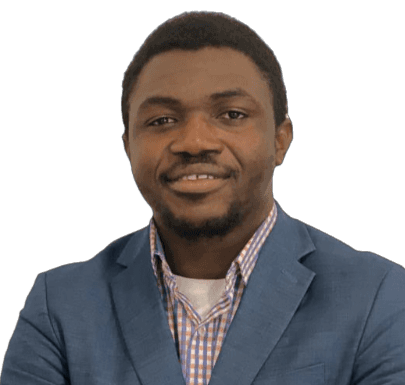
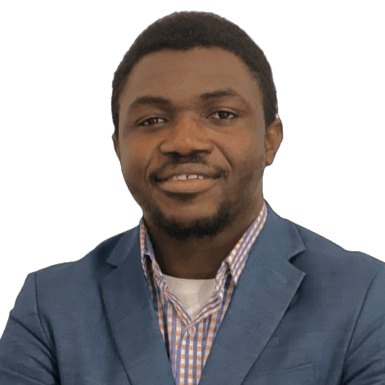
About Page in progress

diff --git a/src/components/organisms/AboutHeader/AboutHeader.scss b/src/components/organisms/AboutHeader/AboutHeader.scss
@@ -1,0 +1,51 @@
+@import '../../../scss/lib.scss';
+.AboutHeader {
+  display: flex;
+  flex-flow: row;
+  align-items: center;
+  text-align: left;
+  justify-content: space-evenly;
+  margin: 60px 0 150px;
+  &_img {
+    img {
+      max-width: 300px;
+      width: 100%;
+      border-radius: 200px;
+      background-color: $background-light;
+    }
+  }
+  &_desc {
+    width: 50%;
+    h3 {
+      font-weight: 500;
+    }
+    p {
+      font-size: 25px;
+    }
+  }
+  @media screen and (max-width: $bm-md) {
+    flex-flow: column;
+
+    &_img {
+      margin-bottom: 20px;
+    }
+
+    &_desc {
+      width: 100%;
+    }
+  }
+
+  @media screen and (max-width: $bm-sm) {
+    margin: 30px 0;
+
+    // &_desc {
+    //   h3 {
+    //     font-size: 20px;
+    //   }
+
+    //   p {
+    //     font-size: 18px;
+    //   }
+    // }
+  }
+}

diff --git a/src/components/organisms/AboutHeader/AboutHeader.jsx b/src/components/organisms/AboutHeader/AboutHeader.jsx
@@ -1,0 +1,23 @@
+import React from 'react';
+import './AboutHeader.scss';
+import DarePass from '../../../assets/DarePass.png';
+
+const AboutHeader = () => {
+  return (
+    <div className="AboutHeader">
+      <div className="AboutHeader_img">
+        <img src={DarePass} alt="Oluwadare Badejo" />
+      </div>
+      <div className="AboutHeader_desc">
+        <h3>Hi there!</h3>
+        <p>
+          Driven by people for data and creating lorem ipsum interactions, I
+          have a evolved to becoming my projection and continuously improve in
+          my work. Learn more about my journey below.
+        </p>
+      </div>
+    </div>
+  );
+};
+
+export default AboutHeader;

diff --git a/src/pages/About.jsx b/src/pages/About.jsx
@@ -1,7 +1,21 @@
 import React from 'react';
+import './About.scss';
+import { AboutHeader } from '../components/organisms';
+import { DUMMY_POST } from '../hooks/DummyPost';
 
 const About = () => {
-  return <div>About</div>;
+  return (
+    <div className="About">
+      <AboutHeader />
+      <div className="About_content">
+        <h4>My Journey</h4>
+        <p>{DUMMY_POST}</p>
+      </div>
+      <div className="About_skillboard">
+        <h4>Skill Board</h4>
+      </div>
+    </div>
+  );
 };
 
 export default About;

diff --git a/src/pages/About.scss b/src/pages/About.scss
@@ -1,0 +1,21 @@
+@import '../scss/lib.scss';
+.About {
+  padding: 80px 115px 0 115px;
+  &_content {
+    p {
+      font-size: 20px;
+      //   font-weight: 400;
+      line-height: 50x;
+      text-align: left;
+      margin: 20px 0 100px;
+    }
+  }
+
+  @media (max-width: $bm-xl) {
+    padding-left: 50px;
+    padding-right: 50px;
+  }
+  @media (max-width: $bm-md) {
+    padding: 40px 18px 0 18px;
+  }
+}

diff --git a/src/components/organisms/index.js b/src/components/organisms/index.js
@@ -8,9 +8,11 @@ import Resume from './Resume/Resume';
 import HeroStandard from './HeroStandard/HeroStandard';
 import WeeklyFeature from './WeeklyFeature/WeeklyFeature';
 import AllPosts from './AllPosts/AllPosts';
+import AboutHeader from './AboutHeader/AboutHeader';
 
 export {
   AllPosts,
+  AboutHeader,
   Endorsements,
   Footer,
   MyWork,
